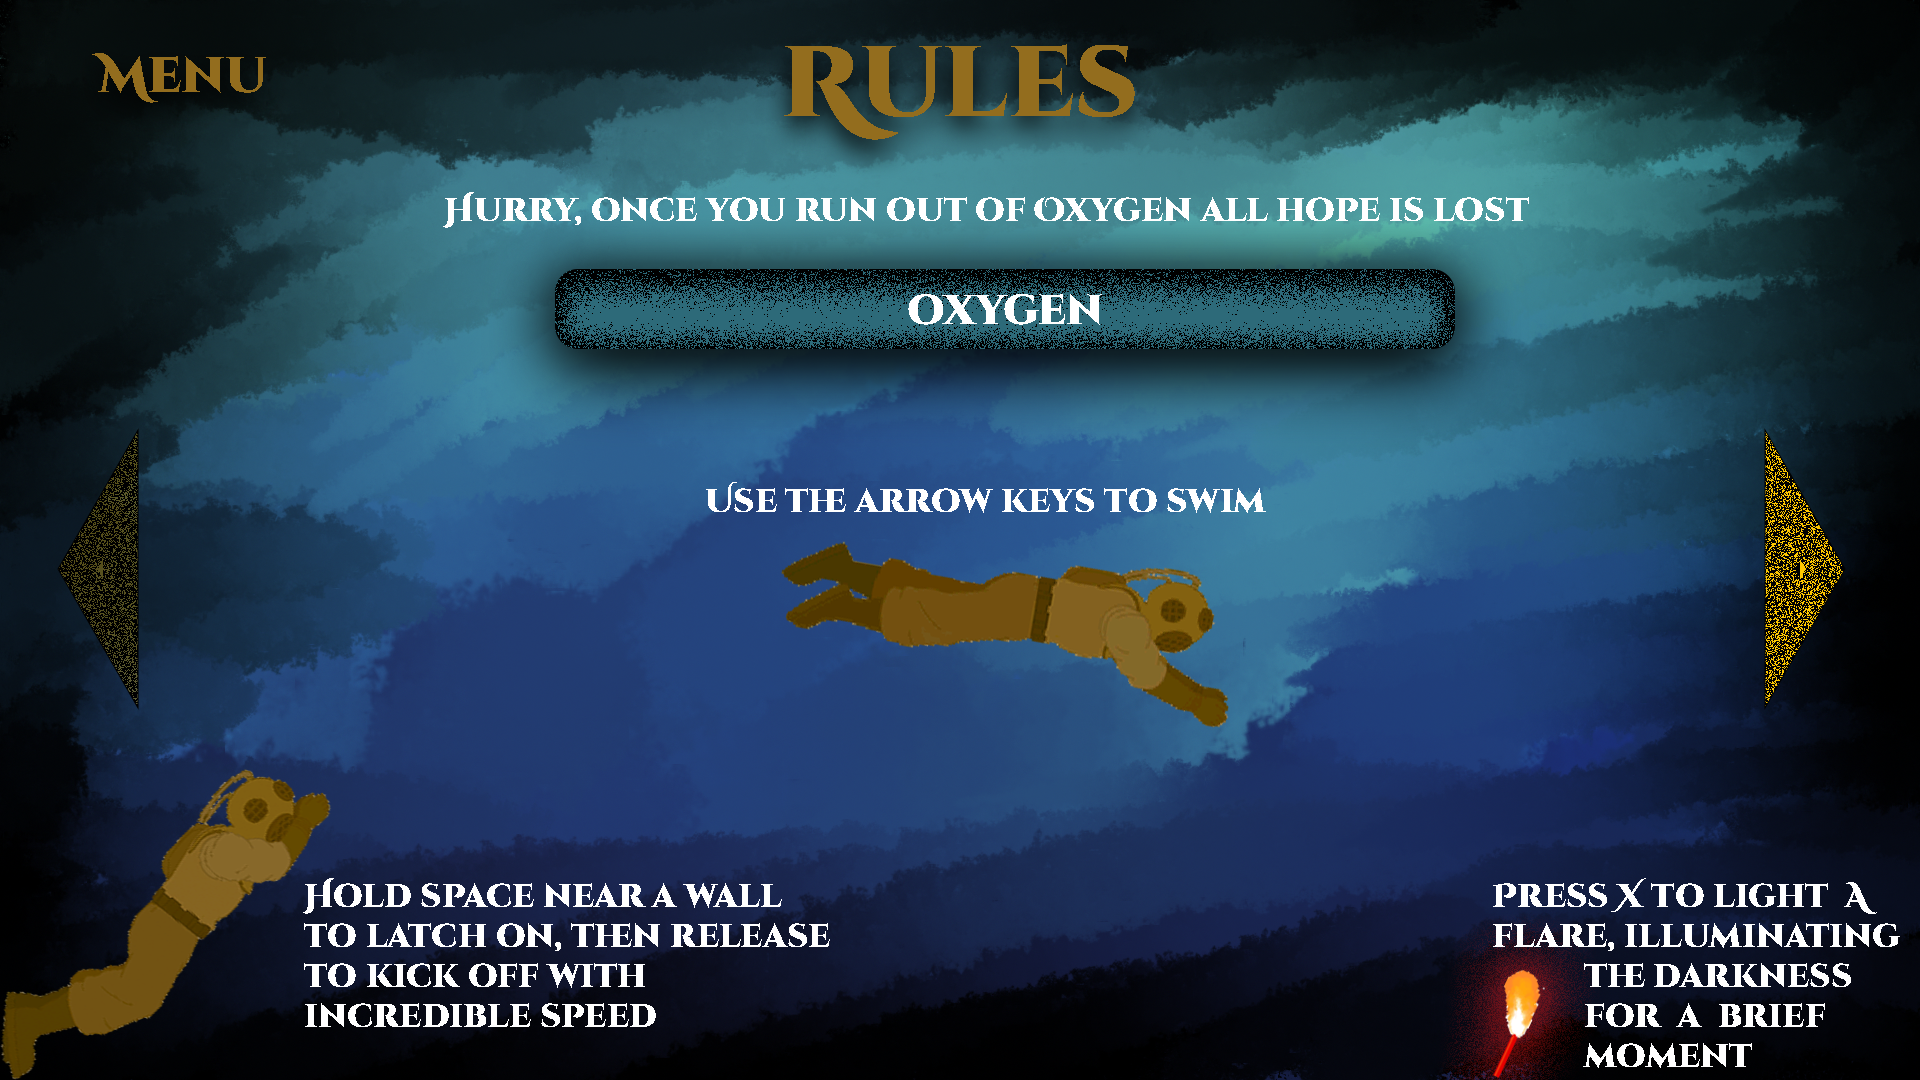
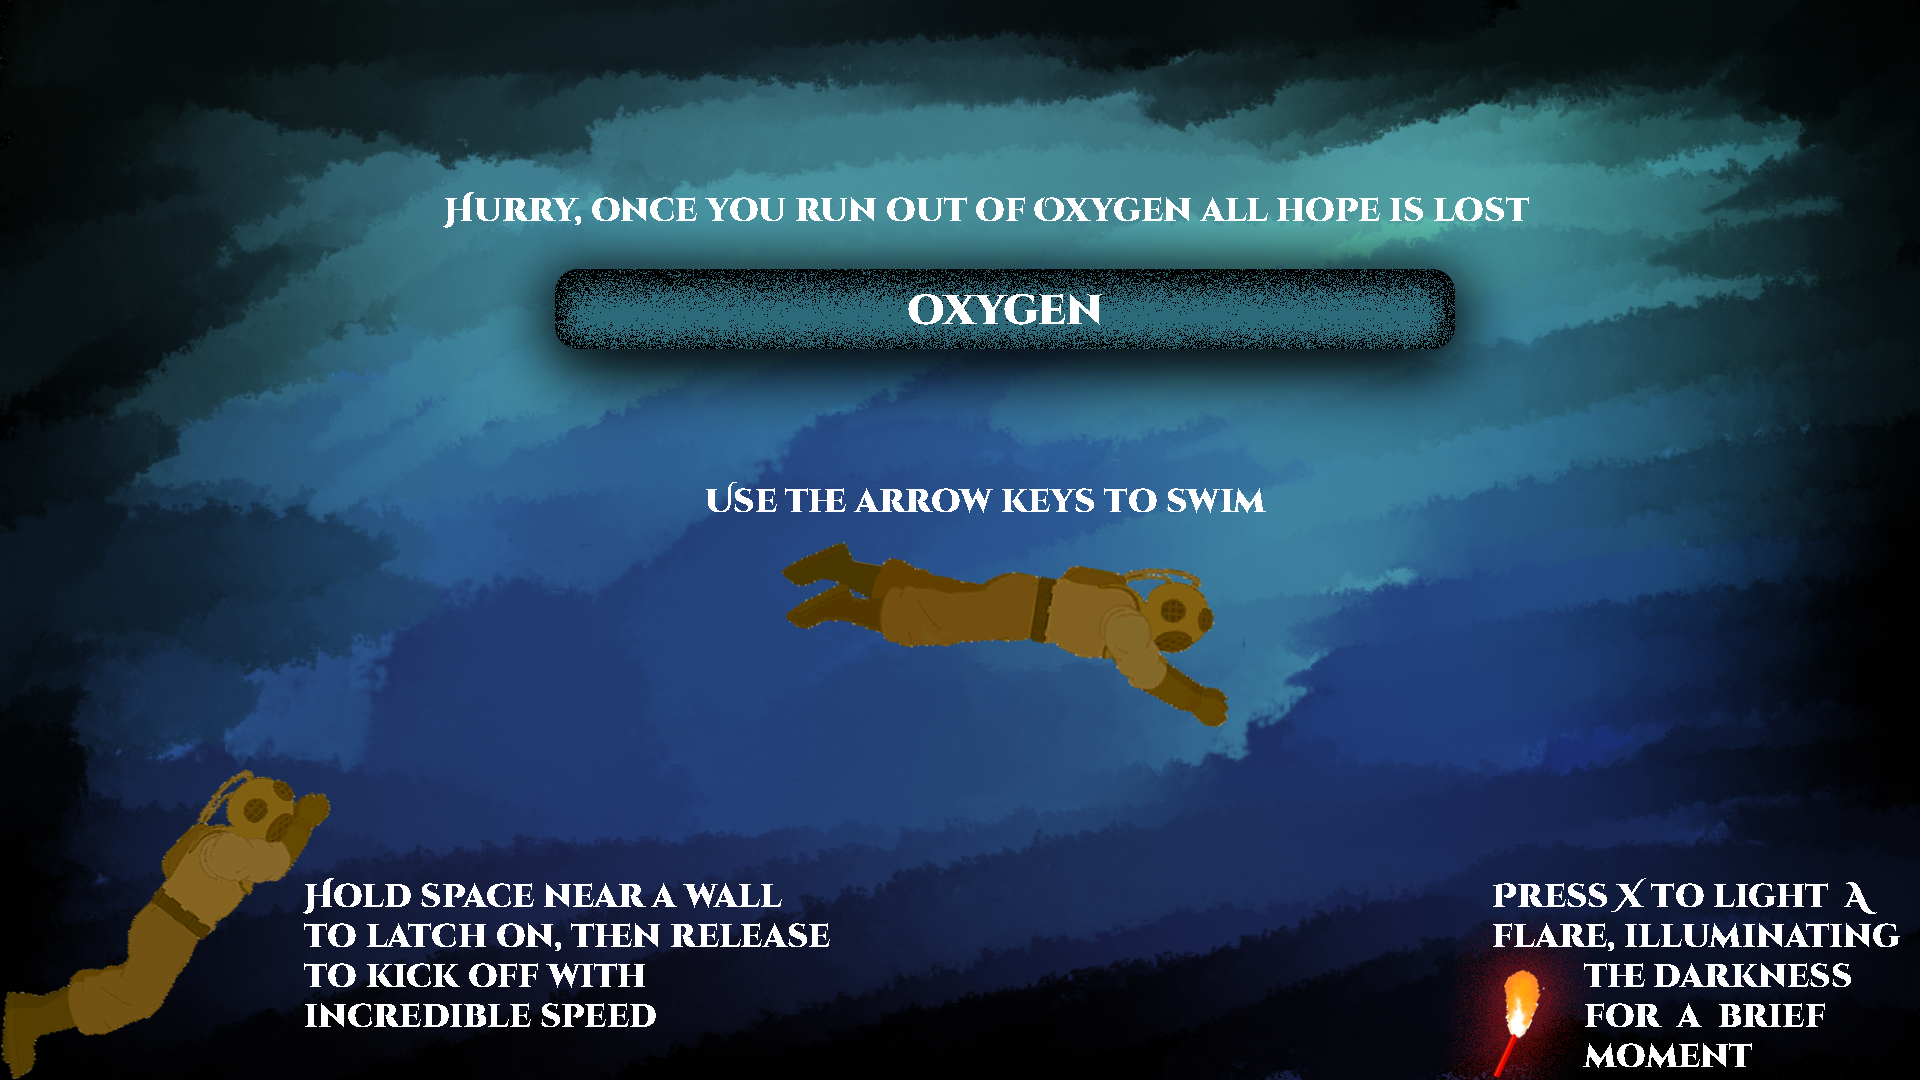
rules thing

diff --git a/core/src/com/xstudios/salvage/game/RulesController.java b/core/src/com/xstudios/salvage/game/RulesController.java
@@ -29,6 +29,8 @@ public class RulesController extends ScreenController implements ControllerListe
     protected Texture two;
 
     protected Texture menu;
+    protected Texture rules;
+
     protected Texture active_right;
     protected Texture active_left;
     protected Texture inactive_right;
@@ -66,6 +68,7 @@ public class RulesController extends ScreenController implements ControllerListe
         two = directory.getEntry("two", Texture.class);
 
         menu = directory.getEntry("rules_menu", Texture.class);
+        rules = directory.getEntry("rules_title", Texture.class);
 
         active_right = directory.getEntry("active_right", Texture.class);
         active_left = directory.getEntry("active_left", Texture.class);
@@ -79,6 +82,8 @@ public class RulesController extends ScreenController implements ControllerListe
         one = null;
         two = null;
         menu = null;
+        rules = null;
+
         active_right = null;
         active_left = null;
         inactive_right = null;
@@ -131,7 +136,8 @@ public class RulesController extends ScreenController implements ControllerListe
             System.out.println("we are in the image2");
             right = !left;
         }
-        press_menu = help_draw(menu, width/12, height - height/10, true);
+        press_menu = help_draw(menu, width/12, height - height/14, true);
+        help_draw(rules, width/2, height - height/12, false);
         canvas.end();
     }
 
